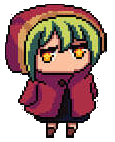
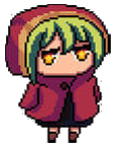
made animation for walking(walking downwards and moving right)

diff --git a/main.py b/main.py
@@ -10,15 +10,13 @@ MAZE = scale_image(pygame.image.load("mazes/stone_maze1.png"),1.7)
 DEF_CHAR = "def_char"
 
 
-
-
 class Sprites:
     def __init__(self,max_vel,acceleration):
         self.max_vel = max_vel
         self.acceleration = acceleration
         self.x,self.y = self.START_POS
         self.velocity_y = 0  # Track vertical velocity
-
+        self.velocity_x = 0
 
 
 
@@ -30,64 +28,70 @@ class Character(Sprites):
     def __init__(self, max_vel, acceleration):
         super().__init__(max_vel, acceleration)
         self.image_folder = DEF_CHAR
-        self.frames = []
-        self.current_frame = 1
+        self.idle_frames = self.load_frames("da_idle", 5)
+        self.walk_frames = self.load_frames("da_walk", 8)
+        self.current_frames = []
+        self.current_frame_index = 0
         self.frame_delay = 200
         self.last_update = pygame.time.get_ticks()
         self.is_moving = False
 
+    def load_frames(self, prefix, count):
+        """Load animation frames from the given folder."""
+        frames = []
+        for i in range(1, count + 1):  # Ensure you include the last frame
+            frame_path = os.path.join(self.image_folder, f"{prefix}{i}.png")
+            frame = scale_image(pygame.image.load(frame_path), 0.5)
+            frames.append(frame)
 
-
+        return frames
     def draw(self, win):
-        if self.is_moving is False:
-            current_img = self.frames[self.current_frame]
+        if not self.current_frames:
+            return
+        else:
+            current_img = self.current_frames[self.current_frame_index]
             win.blit(current_img,(self.x,self.y))
 
 
 
     def navigation(self):
         keys = pygame.key.get_pressed()
-        if keys[pygame.K_DOWN]:
+        if keys[pygame.K_DOWN] or keys[pygame.K_RIGHT] or keys[pygame.K_LEFT]:
             self.is_moving = True
-            frame_count = 9
-            for i in range(1, frame_count):
-                frame_path = os.path.join(self.image_folder, f"da_walk{i}.png")
-                frame = scale_image(pygame.image.load(frame_path), 0.5)
-                self.frames.append(frame)
+            if keys[pygame.K_DOWN]:
+                if self.velocity_y <= self.max_vel:
+                    self.velocity_y += self.acceleration
+                else:
+                    self.velocity_y = self.max_vel
+                self.y += self.velocity_y
+            if keys[pygame.K_RIGHT]:
+                if self.velocity_x <= self.max_vel:
+                    self.velocity_x += self.acceleration
+                else:
+                    self.velocity_x = self.max_vel
+                self.x += self.velocity_x
 
-            if self.velocity_y <= self.max_vel:
-                self.velocity_y += self.acceleration
-            else:
-                self.velocity_y = self.max_vel
-            self.y += self.velocity_y
-            current_image = self.frames[self.current_frame]
-            self.current_frame += 1
-            WIN.blit(current_image,(self.x,self.y))
+
 
         else:
             self.is_moving = False
 
     def animation(self):
-        if self.is_moving is False:
-            frame_count = 4
-            for i in range(1,frame_count):
-                frame_path = os.path.join(self.image_folder, f"da_idle{i}.png")
-                frame = scale_image(pygame.image.load(frame_path), 0.5)
-                self.frames.append(frame)
-            now = pygame.time.get_ticks()
+        now = pygame.time.get_ticks()
+
+        new_frames = self.walk_frames if self.is_moving else self.idle_frames
+
+        # Reset frame index if the animation set changes
+        if self.current_frames != new_frames:
+            self.current_frames = new_frames
+            self.current_frame_index = 0
+
+        if not self.current_frames:
+            return
+        else:
             if now - self.last_update > self.frame_delay:
-                self.current_frame = (self.current_frame + 1) % len(self.frames)  # Loop back to the first frame
-                self.last_update = now
-        # if self.is_moving is True:
-        #     self.navigation()
-        #     keys = pygame.key.get_pressed()
-        #     if keys[pygame.K_DOWN]:
-        #         frame_count = 9
-        #         for i in range(1,frame_count):
-        #             frame_path = os.path.join(self.image_folder, f"da_walk{i}.png")
-        #             frame = scale_image(pygame.image.load(frame_path), 0.5)
-        #             self.frames.append(frame)
-        #
+               self.current_frame_index = (self.current_frame_index + 1) % len(self.current_frames)
+               self.last_update = now
 
 
 
